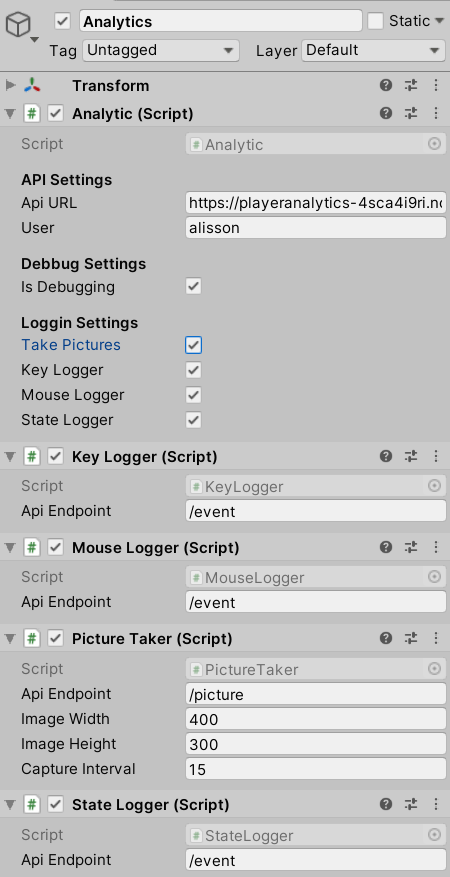
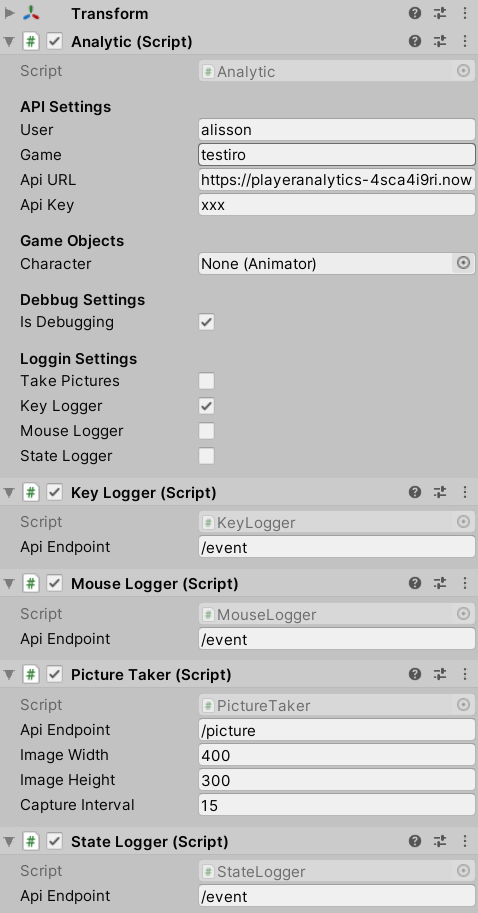
:zap: auto track player state by Animator

Changed region(s): [[0.0, 0.0, 0.9956, 1.0], [0.9333, 0.9236, 0.9956, 0.9852]]

diff --git a/Assets/Analytic/StateLogger.cs b/Assets/Analytic/StateLogger.cs
@@ -6,29 +6,27 @@ using UnityEngine.Networking;
 public class StateLogger : SimpleLogger
 {
 
-    private string state = "Startting";
-    private string LastValidState = "Startting";
-    private string demiState = "nothing";
-    private string demiStateTime = "nothing";
-    private bool isDemiStating = false;
+    private string playerState = "Starting";
+    private string lastValidPlayerState = "Starting";
+    private string state = "State";
+    private string lastState = "State";
     private bool stateChanged = false;
+
 
     void Update()
     {
         if (doStateLogger)
         {
-            if (stateChanged)
+            playerState = stateAnimator.GetCurrentAnimatorClipInfo(0)[0].clip.name;
+            if(!playerState.Equals(lastValidPlayerState))
             {
-                string coroutineValues = "state," + state;
+                string coroutineValues = "player-state," + playerState;
                 StartCoroutine(Upload(coroutineValues));
-                stateChanged = false;
-                LastValidState = state;
+                lastValidPlayerState = playerState;
             }
         }
 
     }
-
-  
 
     public void changeState(string newState)
     {
@@ -39,8 +37,9 @@ public class StateLogger : SimpleLogger
                 state = newState;
                 stateChanged = true;
             }
-            
+
         }
-        
+
     }
+
 }

diff --git a/Assets/Analytic/SimpleLogger.cs b/Assets/Analytic/SimpleLogger.cs
@@ -8,11 +8,13 @@ public class SimpleLogger : MonoBehaviour
     public string ApiEndpoint;
     protected string apiURL;
     protected string user;
+    protected string game;
     protected bool isDebugging;
     protected bool takePictures;
     protected bool doKeyLogger;
     protected bool doMouseLogger;
     protected bool doStateLogger;
+    protected Animator stateAnimator;
 
     // Start is called before the first frame update
     protected void Start()
@@ -25,6 +27,8 @@ public class SimpleLogger : MonoBehaviour
         doKeyLogger = analytic.KeyLogger;
         doMouseLogger = analytic.MouseLogger;
         doStateLogger = analytic.StateLogger;
+        game = analytic.Game;
+        stateAnimator = analytic.Character;
     }
 
     protected IEnumerator Upload(string values)
@@ -42,6 +46,7 @@ public class SimpleLogger : MonoBehaviour
         string[] data = values.Split(',');
         WWWForm json = new WWWForm();
         json.AddField("user", user);
+        json.AddField("game", game);
         json.AddField("category", data[0]);
         json.AddField("action", data[1]);
         if (data.Length >= 3)

diff --git a/Assets/Analytic/Analytic.cs b/Assets/Analytic/Analytic.cs
@@ -5,10 +5,17 @@ using UnityEngine;
 public class Analytic : MonoBehaviour
 {
     [Header("API Settings")]
-    public string ApiURL;
     public string User;
+    public string Game;
+    public string ApiURL;
+    public string ApiKey;
+
+    [Header("Game Objects")]
+    public Animator Character;
+
     [Header("Debbug Settings")]
     public bool IsDebugging;
+
     [Header("Loggin Settings")]
     public bool TakePictures;
     public bool KeyLogger;
